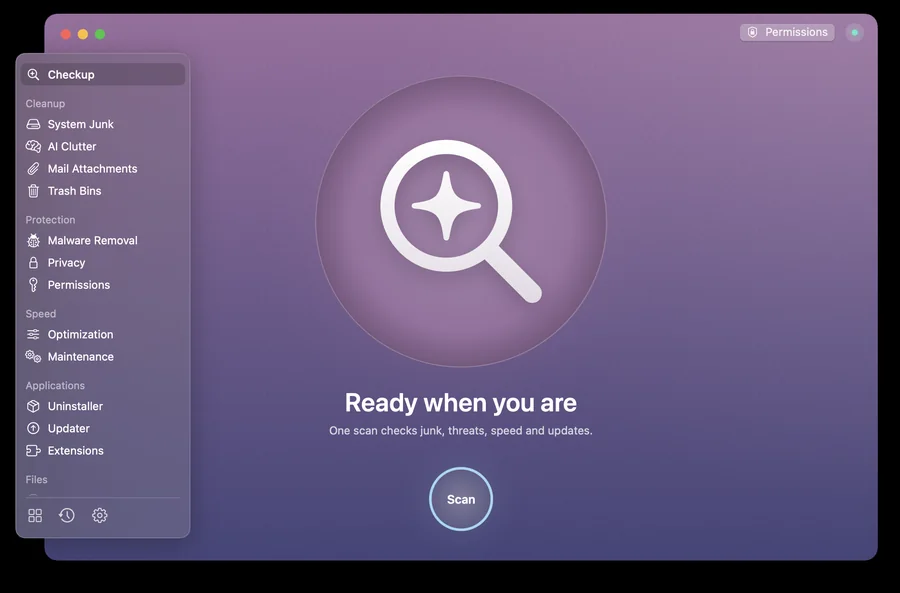
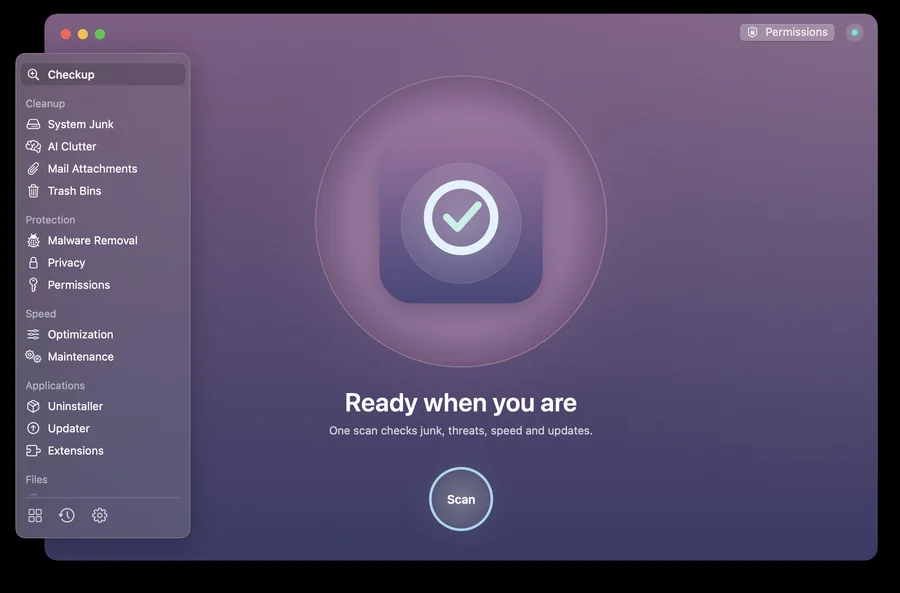
Phase 11 finish: brand illustrations, motion audit, throttling
- Ship the ten brand-kit module illustrations in the hero discs, with the SF
  Symbol fallback when the art is missing.
- Gate numeric rolls, stagger and the review sheet behind Reduce Motion; pause
  hero loops when the window is not key.
- Add the 10 Hz progress throttle and wire it into the hash pass and Similar
  Photos.
- Stamp a configurable team ID into CMTeamIdentifier so a fork can sign with
  its own Apple team.
- Record the A1-A34 walk in docs/MOTION_AUDIT.md and the translation backlog in
  docs/LOCALIZATION.md.
- Refresh the site screenshots with the illustrated build.

Tests: 1,365 passed, 0 failed, 1 skipped. DMG: .build/CleanMyLife-0.1.0.dmg.

diff --git a/Sources/MacClean/Views/Templates/Templates.swift b/Sources/MacClean/Views/Templates/Templates.swift
@@ -74,6 +74,7 @@ struct StaggerIn: ViewModifier {
             .opacity(shown ? 1 : 0)
             .offset(y: shown || reduceMotion ? 0 : 14)
             .onAppear {
+                guard !reduceMotion else { shown = true; return }
                 withAnimation(.spring(response: 0.45, dampingFraction: 0.85).delay(0.035 * Double(min(index, 10)))) {
                     shown = true
                 }
@@ -99,6 +100,7 @@ struct TemplateHero: View {
 
     let palette: ModulePalette
     let symbol: String
+    var illustration: String? = nil
     var motion: Motion = .still
     var diameter: CGFloat
     @Environment(\.templateNamespace) private var namespace
@@ -106,7 +108,7 @@ struct TemplateHero: View {
     @State private var phase = false
 
     var body: some View {
-        HeroDisc(palette: palette, symbol: symbol, diameter: diameter)
+        HeroDisc(palette: palette, symbol: symbol, illustration: illustration, diameter: diameter)
             .overlay {
                 if motion == .scanning && !reduceMotion {
                     ScanSweep(diameter: diameter)
@@ -267,7 +269,7 @@ struct IntroTemplate<Control: View>: View {
     var body: some View {
         CardSpaceReader { space in
             ZStack(alignment: .topLeading) {
-                TemplateHero(palette: palette, symbol: intro.heroSymbol, diameter: space.heroDiameter)
+                TemplateHero(palette: palette, symbol: intro.heroSymbol, illustration: intro.artName, diameter: space.heroDiameter)
                     .position(space.heroCenter)
 
                 VStack(alignment: .leading, spacing: 0) {
@@ -338,7 +340,7 @@ struct ScanningTemplate: View {
     var body: some View {
         CardSpaceReader { space in
             ZStack(alignment: .topLeading) {
-                TemplateHero(palette: palette, symbol: intro.heroSymbol, motion: heroMotion,
+                TemplateHero(palette: palette, symbol: intro.heroSymbol, illustration: intro.artName, motion: heroMotion,
                              diameter: space.heroDiameter)
                     .position(space.heroCenter)
 
@@ -428,7 +430,7 @@ struct ResultsTemplate: View {
     var body: some View {
         CardSpaceReader { space in
             ZStack(alignment: .topLeading) {
-                TemplateHero(palette: palette, symbol: intro.heroSymbol, diameter: space.heroDiameter)
+                TemplateHero(palette: palette, symbol: intro.heroSymbol, illustration: intro.artName, diameter: space.heroDiameter)
                     .position(space.heroCenter)
 
                 VStack(alignment: .leading, spacing: 0) {
@@ -529,7 +531,7 @@ struct VerdictTemplate: View {
         CardSpaceReader { space in
             ZStack(alignment: .topLeading) {
                 // A32: the hero slides left and grows, tucking behind the sidebar.
-                TemplateHero(palette: palette, symbol: intro.heroSymbol, diameter: space.heroDiameter)
+                TemplateHero(palette: palette, symbol: intro.heroSymbol, illustration: intro.artName, diameter: space.heroDiameter)
                     .scaleEffect((shifted ? 1.25 : 1) * (pulse ? 1.04 : 1))
                     .position(shifted ? CGPoint(x: space.x(0.30), y: space.heroCenter.y) : space.heroCenter)
 
@@ -685,7 +687,7 @@ struct EmptyTemplate: View {
     var body: some View {
         CardSpaceReader { space in
             ZStack(alignment: .topLeading) {
-                TemplateHero(palette: palette, symbol: intro.heroSymbol, motion: .floating,
+                TemplateHero(palette: palette, symbol: intro.heroSymbol, illustration: intro.artName, motion: .floating,
                              diameter: space.heroDiameter)
                     .position(space.heroCenter)
                 VStack(alignment: .leading, spacing: 8) {

diff --git a/Sources/MacClean/Views/Shared/Clean1Components.swift b/Sources/MacClean/Views/Shared/Clean1Components.swift
@@ -182,12 +182,22 @@ extension View {
             .environment(\.colorScheme, .dark)
     }
 
-    /// A4: sizes and counts roll digit by digit when they change.
+    /// A4: sizes and counts roll digit by digit when they change. Reduce
+    /// Motion swaps the number without rolling.
     func numericRoll<V: Equatable>(_ value: V) -> some View {
-        self
+        modifier(NumericRoll(value: value))
+    }
+}
+
+private struct NumericRoll<V: Equatable>: ViewModifier {
+    let value: V
+    @Environment(\.accessibilityReduceMotion) private var reduceMotion
+
+    func body(content: Content) -> some View {
+        content
             .monospacedDigit()
-            .contentTransition(.numericText())
-            .animation(.snappy, value: value)
+            .contentTransition(reduceMotion ? .identity : .numericText())
+            .animation(reduceMotion ? nil : .snappy, value: value)
     }
 }
 
@@ -266,6 +276,7 @@ struct CategoryTile: View {
 struct HeroDisc: View {
     let palette: ModulePalette
     let symbol: String
+    var illustration: String? = nil
     var diameter: CGFloat = CardLayout.heroDiameter
 
     var body: some View {
@@ -285,13 +296,24 @@ struct HeroDisc: View {
             Circle()
                 .strokeBorder(Color.white.opacity(0.25), lineWidth: 1)
 
-            // An empty symbol leaves the disc bare (for overlays like the drawn check).
-            Image(systemName: symbol.isEmpty ? "circle" : symbol)
-                .opacity(symbol.isEmpty ? 0 : 1)
-                .font(.system(size: diameter * 0.58, weight: .regular))
-                .foregroundStyle(LinearGradient(colors: [.white, .white.opacity(0.75)],
-                                                startPoint: .top, endPoint: .bottom))
-                .shadow(color: .black.opacity(0.25), radius: 12, y: 8)
+            if let illustration, let art = BrandAssets.image("Art_\(illustration)") {
+                // Brand-kit illustration (Phase 11 §2.5). Knocked out in white
+                // so it reads on every module gradient.
+                Image(nsImage: art)
+                    .resizable()
+                    .scaledToFit()
+                    .frame(width: diameter * 0.56, height: diameter * 0.56)
+                    .opacity(0.96)
+                    .shadow(color: .black.opacity(0.22), radius: 12, y: 8)
+            } else {
+                // An empty symbol leaves the disc bare (for overlays like the drawn check).
+                Image(systemName: symbol.isEmpty ? "circle" : symbol)
+                    .opacity(symbol.isEmpty ? 0 : 1)
+                    .font(.system(size: diameter * 0.58, weight: .regular))
+                    .foregroundStyle(LinearGradient(colors: [.white, .white.opacity(0.75)],
+                                                    startPoint: .top, endPoint: .bottom))
+                    .shadow(color: .black.opacity(0.25), radius: 12, y: 8)
+            }
         }
         .frame(width: diameter, height: diameter)
         .accessibilityHidden(true)

diff --git a/Sources/MacClean/Views/Templates/ModuleIntro.swift b/Sources/MacClean/Views/Templates/ModuleIntro.swift
@@ -17,10 +17,36 @@ struct ModuleIntro {
     let bullets: [Bullet]
     /// Primary button label on the intro.
     var action: String = L10n.tr("扫描", "Scan", "Сканировать")
+    /// Brand-kit illustration for the hero disc (nil keeps the SF Symbol).
+    var artName: String? = nil
 }
 
 extension SidebarItem {
+    /// A brand-kit illustration for the hero disc, when the section has one.
+    var illustrationName: String? {
+        switch self {
+        case .smartScan: "Checkup"
+        case .systemJunk, .mailAttachments, .trashBins, .projectJunk, .diskHogs, .cleanHistory,
+             .aiClutter, .downloadsCleanup: "Cleanup"
+        case .malwareRemoval, .privacy, .browserExtensions, .wifiNetworks, .appPermissions: "Protection"
+        case .optimization: "Speed_Optimisation"
+        case .maintenance: "Maintenance"
+        case .uninstaller, .unusedApps, .extensions, .browserTabs: "Applications"
+        case .updater: "Updater"
+        case .spaceLens, .duplicates, .similarPhotos: "Space_Map"
+        case .screenshots, .largeOldFiles: "Large_And_Old"
+        case .shredder: "Shredder"
+        case .tools, .settings: nil
+        }
+    }
+
     var intro: ModuleIntro {
+        var value = introBody
+        value.artName = illustrationName
+        return value
+    }
+
+    private var introBody: ModuleIntro {
         typealias B = ModuleIntro.Bullet
         switch self {
         case .smartScan:

diff --git a/Sources/MacClean/Views/SmartScan/SmartScanView.swift b/Sources/MacClean/Views/SmartScan/SmartScanView.swift
@@ -265,7 +265,7 @@ struct SmartScanView: View {
     private var idleView: some View {
         CardSpaceReader { space in
             ZStack(alignment: .topLeading) {
-                TemplateHero(palette: .checkup, symbol: "sparkle.magnifyingglass", diameter: 0.35 * space.W)
+                TemplateHero(palette: .checkup, symbol: "sparkle.magnifyingglass", illustration: "Checkup", diameter: 0.35 * space.W)
                     .position(x: space.x(0.5), y: space.y(0.38))
                 VStack(spacing: 8) {
                     Text("Ready when you are")
@@ -291,7 +291,7 @@ struct SmartScanView: View {
     private func scanningView(phase: String, progress: Double, filesFound: Int, sizeFound: UInt64) -> some View {
         CardSpaceReader { space in
             ZStack(alignment: .topLeading) {
-                TemplateHero(palette: .checkup, symbol: "sparkle.magnifyingglass", motion: .scanning,
+                TemplateHero(palette: .checkup, symbol: "sparkle.magnifyingglass", illustration: "Checkup", motion: .scanning,
                              diameter: 0.25 * space.W)
                     .position(x: space.x(0.5), y: space.y(0.28))
                 VStack(spacing: 6) {

diff --git a/Sources/MacCleanKit/Constants.swift b/Sources/MacCleanKit/Constants.swift
@@ -21,7 +21,18 @@ public enum MCConstants {
     /// root RPCs — a local privilege escalation. Pinning the Apple anchor and
     /// this Team ID closes that, because an attacker cannot obtain a Developer
     /// ID certificate issued to our team.
-    public static let teamIdentifier = "H3XLS95QV4"
+    /// A fork can set `CMTeamIdentifier` in its Info.plist at build time
+    /// (`TEAM_IDENTIFIER=... scripts/build-dmg.sh`) instead of editing this
+    /// file. The fallback keeps local upstream builds working; signing a
+    /// release with a different team without setting it makes the helper
+    /// refuse the connection, which is the safe failure.
+    public static var teamIdentifier: String {
+        if let value = Bundle.main.object(forInfoDictionaryKey: "CMTeamIdentifier") as? String,
+           !value.isEmpty {
+            return value
+        }
+        return "H3XLS95QV4"
+    }
 
     /// Code-signing requirement a connecting XPC peer must satisfy, used by
     /// both the helper listener (validating callers) and the client connection

diff --git a/Sources/MacClean/Modules/Malware/MalwareModule.swift b/Sources/MacClean/Modules/Malware/MalwareModule.swift
@@ -319,11 +319,14 @@ public struct MalwareModule: ScanModule {
             let ordered = candidates.sorted(by: { $0.path < $1.path })
             let matches = HashMatches(count: ordered.count)
             let index = database.index
+            // The hash pass can report thousands of times a second; the UI
+            // only needs 10 Hz (UI_SPEC §10).
+            let throttle = ProgressThrottle()
             DispatchQueue.concurrentPerform(iterations: ordered.count) { number in
                 if Task.isCancelled { return }
                 if let hit = Self.hashMatch(ordered[number], index: index) { matches.set(number, hit) }
                 let done = matches.tick()
-                if done % 1000 == 0, ordered.count > 2000 {
+                if done % 1000 == 0, ordered.count > 2000, throttle.ready() {
                     progress?("Matching hashes: \(done.formatted()) of \(ordered.count.formatted()) files…",
                               0.12 + 0.07 * Double(done) / Double(ordered.count))
                 }

diff --git a/Sources/MacCleanKit/ProgressThrottle.swift b/Sources/MacCleanKit/ProgressThrottle.swift
@@ -1,0 +1,24 @@
+import Foundation
+
+/// A thread-safe 10 Hz gate for scan progress updates (UI_SPEC §10).
+/// Scan engines can produce thousands of updates a second; the UI only needs
+/// ten. Phase changes should bypass the gate and always be delivered.
+public final class ProgressThrottle: @unchecked Sendable {
+    private let lock = NSLock()
+    private let interval: TimeInterval
+    private var last = Date.distantPast
+
+    public init(interval: TimeInterval = 0.1) {
+        self.interval = interval
+    }
+
+    /// True at most once per interval.
+    public func ready() -> Bool {
+        lock.lock()
+        defer { lock.unlock() }
+        let now = Date()
+        guard now.timeIntervalSince(last) >= interval else { return false }
+        last = now
+        return true
+    }
+}

diff --git a/Sources/MacClean/Views/NewModules/SimilarPhotosView.swift b/Sources/MacClean/Views/NewModules/SimilarPhotosView.swift
@@ -69,9 +69,11 @@ struct SimilarPhotosView: View {
         clusters = []
         selectedItems = []
         let scanner = SimilarPhotosScanner(includeLibrary: includeLibrary)
+        let throttle = ProgressThrottle()
         Task {
             let found = await Task.detached(priority: .userInitiated) {
                 await scanner.scan { progress in
+                    guard throttle.ready() else { return }
                     Task { @MainActor in
                         scanProgress = max(scanProgress, progress.fraction)
                         scanPhase = progress.phase

diff --git a/Sources/MacClean/Views/Shared/PreviewGallery.swift b/Sources/MacClean/Views/Shared/PreviewGallery.swift
@@ -42,7 +42,7 @@ import SwiftUI
                 .font(TypeScale.introSubtitle)
                 .foregroundStyle(TypeScale.secondaryText)
         }
-        TemplateHero(palette: .protection, symbol: "ladybug", motion: .scanning, diameter: 220)
+        TemplateHero(palette: .protection, symbol: "ladybug", illustration: "Protection", motion: .scanning, diameter: 220)
     }
     .padding(40)
     .background(LinearGradient(colors: [ModulePalette.protection.top, ModulePalette.protection.bottom],

diff --git a/Sources/MacClean/Views/Tools/OnboardingFlow.swift b/Sources/MacClean/Views/Tools/OnboardingFlow.swift
@@ -79,7 +79,7 @@ struct OnboardingFlow: View {
                     .shadow(color: .black.opacity(0.25), radius: 24, y: 12)
                     .accessibilityLabel(MCConstants.appName)
             } else {
-                TemplateHero(palette: .checkup, symbol: "sparkles", motion: .floating, diameter: size)
+                TemplateHero(palette: .checkup, symbol: "sparkles", illustration: "Checkup", motion: .floating, diameter: size)
             }
         }
     }

diff --git a/Sources/MacClean/Views/Templates/ReviewTemplates.swift b/Sources/MacClean/Views/Templates/ReviewTemplates.swift
@@ -304,7 +304,9 @@ private struct ReviewSheetModifier<Sheet: View>: ViewModifier {
                     .sidebarMode(.dimmed)
                 }
             }
-            .animation(.spring(response: 0.45, dampingFraction: 0.88), value: isPresented)
+            .animation(reduceMotion ? .easeInOut(duration: 0.2)
+                                    : .spring(response: 0.45, dampingFraction: 0.88),
+                       value: isPresented)
     }
 }
 

diff --git a/Casks/clean-my-life.rb b/Casks/clean-my-life.rb
@@ -1,8 +1,7 @@
 cask "clean-my-life" do
   version "0.1.0"
   # The release workflow replaces this with the published DMG's SHA-256.
-  # :no_check is only here so the in-repo cask can be tested before the first
-  # release exists.
+  # :no_check lets the in-repo cask be tested before the first release exists.
   sha256 :no_check
 
   url "https://github.com/itchyparrot53/clean-my-life/releases/download/v#{version}/CleanMyLife-#{version}.dmg"
